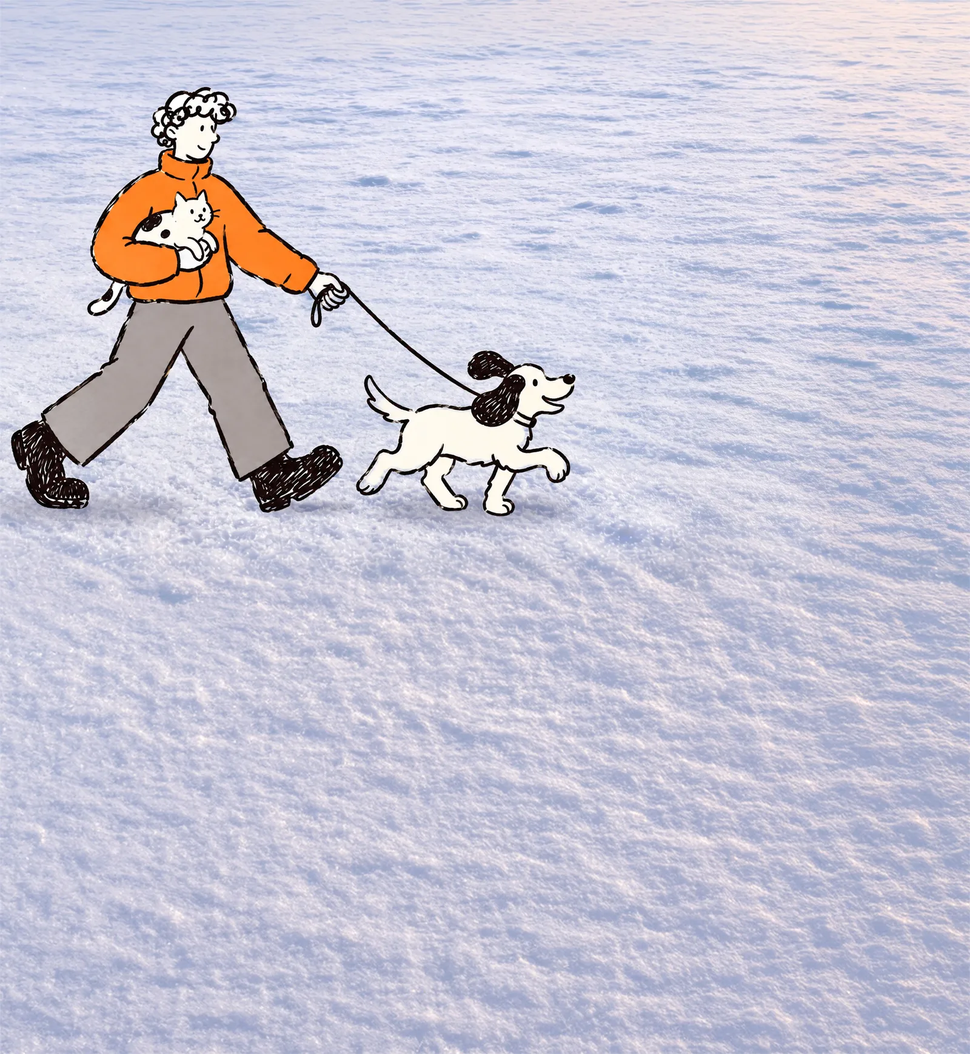
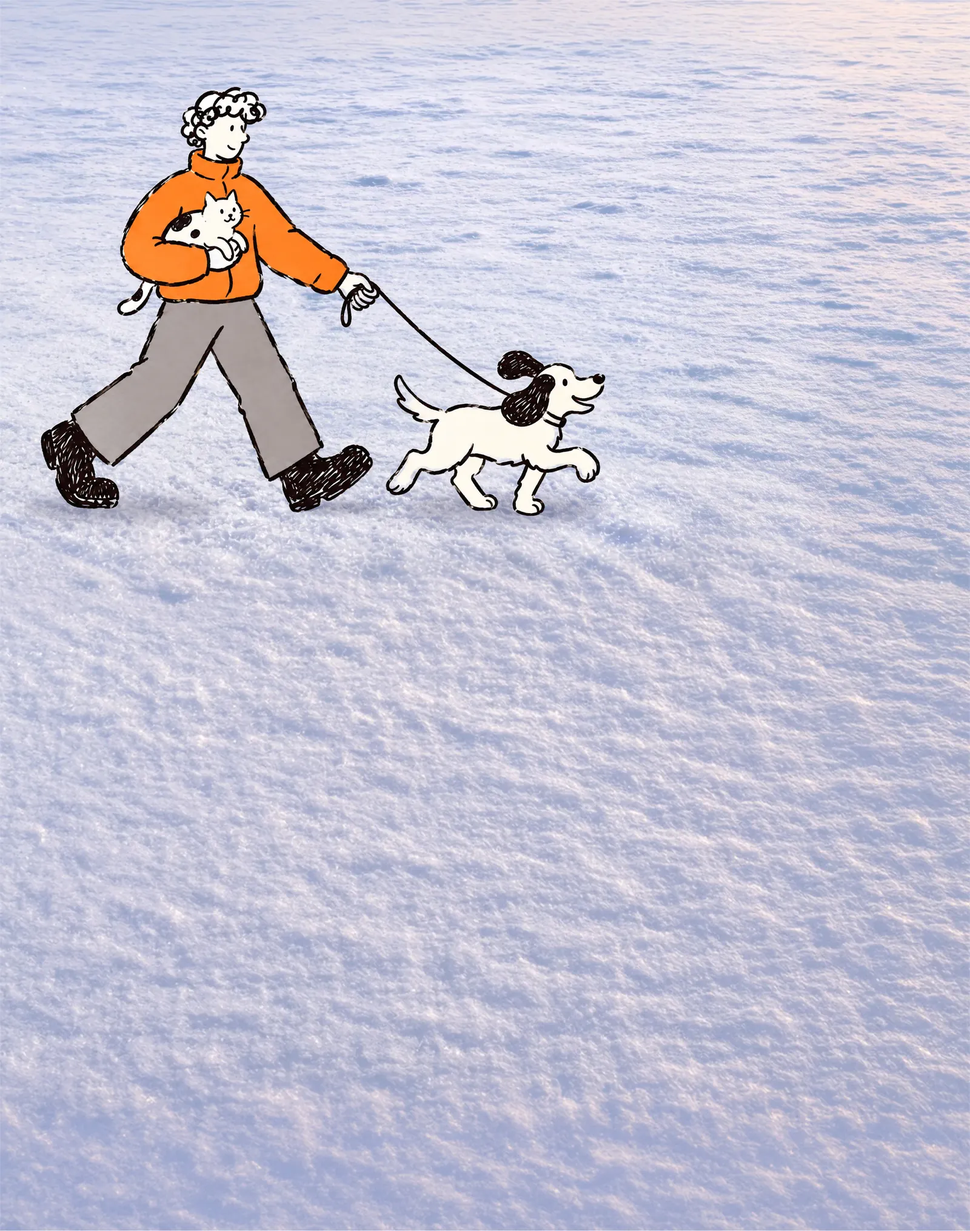
Новый снежный фон с иллюстрацией (Figma 209-1247), баблы точно по макету, больше снега под описательным текстом
Claude-Session: https://claude.ai/code/session_01AkngT74Q8UjbbuWoibwAJK

diff --git a/index.html b/index.html
@@ -73,8 +73,8 @@ button{font:inherit;color:inherit}
 
 /* ---------- 01 · хиро + 02 · текст: один фон из макета ---------- */
 .snow{position:relative;background:#E9E8F2 url(assets/snow.webp) center top/cover no-repeat;overflow:hidden}
-/* мобайл: экспорт десктопного кадра, уменьшенный так, чтобы иллюстрация встала по мобильному макету (x −180, w 623, y 218) */
-.hbg{position:absolute;left:50%;top:calc(177*var(--u));width:calc(800*var(--u));height:auto;margin-left:calc(-294*var(--u));pointer-events:none;
+/* мобайл: экспорт десктопного кадра (1495×1899), уменьшенный так, чтобы иллюстрация встала по мобильному макету (x −180, w 623, y 218) */
+.hbg{position:absolute;left:50%;top:calc(177*var(--u));width:calc(800*var(--u));height:auto;margin-left:calc(-318.4*var(--u));pointer-events:none;
   -webkit-mask-image:linear-gradient(transparent,#000 9%,#000 84%,transparent);mask-image:linear-gradient(transparent,#000 9%,#000 84%,transparent)}
 .hero{position:relative;height:calc(811*var(--u))}
 .logo{position:absolute;left:calc(16*var(--u));top:calc(15*var(--u));width:calc(80*var(--u));z-index:6}
@@ -110,12 +110,11 @@ button{font:inherit;color:inherit}
   .nav{display:flex;gap:calc(48*var(--u))}
   .nav a{font-weight:900;font-size:var(--nav);line-height:.86;letter-spacing:-.03em;color:var(--orange);text-decoration:none}
   .nav a:hover{text-decoration:underline;text-underline-offset:calc(6*var(--u))}
-  /* Figma 209-1247: баблы ближе к иллюстрации, наклоны новые. Координаты сдвинуты на −46.2 по x вместе с иллюстрацией,
-     т.к. фон пока прежний (иллюстрация в нём на старом месте) — взаимное положение как в макете */
-  .plate{left:calc(924.1*var(--u));top:calc(168.2*var(--u));width:calc(533.1*var(--u));height:calc(103.6*var(--u));border-radius:calc(34*var(--u));font-size:calc(85.9*var(--u));--pr:-6.7deg;padding-bottom:calc(11.8*var(--u))}
-  .obub{transform-origin:calc(886*var(--u)) calc(592*var(--u))}
-  .union{left:calc(782.8*var(--u));top:calc(200.2*var(--u));width:calc(588.4*var(--u));rotate:-2.5deg}
-  .ut{left:calc(1082*var(--u));top:calc(365.1*var(--u));font-size:calc(188.9*var(--u));rotate:1.1deg}
+  /* Figma 209-1247: баблы ближе к иллюстрации, наклоны новые */
+  .plate{left:calc(970.3*var(--u));top:calc(167.9*var(--u));width:calc(533.1*var(--u));height:calc(103.6*var(--u));border-radius:calc(34*var(--u));font-size:calc(85.9*var(--u));--pr:-6.7deg;padding-bottom:calc(11.8*var(--u))}
+  .obub{transform-origin:calc(932*var(--u)) calc(592*var(--u))}
+  .union{left:calc(829*var(--u));top:calc(199.9*var(--u));width:calc(588.4*var(--u));rotate:-2.5deg}
+  .ut{left:calc(1128.2*var(--u));top:calc(364.8*var(--u));font-size:calc(188.9*var(--u));rotate:1.1deg}
 }
 .js .plate,.js .obub{opacity:0}
 .go .plate{animation:pop .7s cubic-bezier(.34,1.56,.64,1) .25s both}
@@ -143,14 +142,14 @@ button{font:inherit;color:inherit}
 .dr1{left:calc(291.5*var(--u));top:calc(406*var(--u));width:calc(66*var(--u));rotate:-9.3deg;transition-delay:.1s}
 .dr2{left:calc(279*var(--u));top:calc(423*var(--u));width:calc(42*var(--u));transition-delay:.25s}
 @media (min-width:900px){
-  .lead-sec{height:calc(760*var(--u))}
+  .lead-sec{height:calc(1034*var(--u))}
   .lead-sec::before{background:radial-gradient(ellipse 42% 44% at 50% 45%,rgba(255,255,255,.62),rgba(255,255,255,.36) 55%,rgba(255,255,255,0) 100%)}
   .lead-sec::after{height:calc(140*var(--u))}
-  .lead{left:calc(369*var(--u));top:calc(134*var(--u));width:calc(757*var(--u))}
-  .dl1{left:calc(248*var(--u));top:calc(124*var(--u));width:calc(110*var(--u));rotate:0deg}
-  .dl2{left:calc(205*var(--u));top:calc(202*var(--u));width:calc(137*var(--u));rotate:0deg}
-  .dr1{left:calc(1145*var(--u));top:calc(512*var(--u));width:calc(124*var(--u));rotate:0deg}
-  .dr2{left:calc(1135*var(--u));top:calc(562*var(--u));width:calc(81*var(--u));rotate:0deg}
+  .lead{left:calc(369*var(--u));top:calc(250*var(--u));width:calc(757*var(--u))}
+  .dl1{left:calc(248*var(--u));top:calc(240*var(--u));width:calc(110*var(--u));rotate:0deg}
+  .dl2{left:calc(205*var(--u));top:calc(318*var(--u));width:calc(137*var(--u));rotate:0deg}
+  .dr1{left:calc(1145*var(--u));top:calc(628*var(--u));width:calc(124*var(--u));rotate:0deg}
+  .dr2{left:calc(1135*var(--u));top:calc(678*var(--u));width:calc(81*var(--u));rotate:0deg}
 }
 
 /* ---------- 03 · почему это важно: три карточки в ряд, баблы всплывают по очереди ---------- */
@@ -404,7 +403,7 @@ button{font:inherit;color:inherit}
 </svg>
 
 <div class="snow" id="snow">
-  <img class="hbg" src="assets/hero-bg-m.webp" width="1600" height="1739" alt="Человек гуляет по снегу с собакой на поводке и держит кота на руках">
+  <img class="hbg" src="assets/hero-bg-m.webp" width="1600" height="2032" alt="Человек гуляет по снегу с собакой на поводке и держит кота на руках">
   <section class="hero" aria-label="Пицца съедена, пора гулять">
     <div class="fr" style="height:100%">
       <a class="logo" href="#top" aria-label="Додо Пицца"><img src="assets/logo.png" alt="Додо Пицца"></a>

diff --git a/src/template.html b/src/template.html
@@ -73,8 +73,8 @@ button{font:inherit;color:inherit}
 
 /* ---------- 01 · хиро + 02 · текст: один фон из макета ---------- */
 .snow{position:relative;background:#E9E8F2 url(assets/snow.webp) center top/cover no-repeat;overflow:hidden}
-/* мобайл: экспорт десктопного кадра, уменьшенный так, чтобы иллюстрация встала по мобильному макету (x −180, w 623, y 218) */
-.hbg{position:absolute;left:50%;top:u(177);width:u(800);height:auto;margin-left:u(-294);pointer-events:none;
+/* мобайл: экспорт десктопного кадра (1495×1899), уменьшенный так, чтобы иллюстрация встала по мобильному макету (x −180, w 623, y 218) */
+.hbg{position:absolute;left:50%;top:u(177);width:u(800);height:auto;margin-left:u(-318.4);pointer-events:none;
   -webkit-mask-image:linear-gradient(transparent,#000 9%,#000 84%,transparent);mask-image:linear-gradient(transparent,#000 9%,#000 84%,transparent)}
 .hero{position:relative;height:u(811)}
 .logo{position:absolute;left:u(16);top:u(15);width:u(80);z-index:6}
@@ -110,12 +110,11 @@ button{font:inherit;color:inherit}
   .nav{display:flex;gap:u(48)}
   .nav a{font-weight:900;font-size:var(--nav);line-height:.86;letter-spacing:-.03em;color:var(--orange);text-decoration:none}
   .nav a:hover{text-decoration:underline;text-underline-offset:u(6)}
-  /* Figma 209-1247: баблы ближе к иллюстрации, наклоны новые. Координаты сдвинуты на −46.2 по x вместе с иллюстрацией,
-     т.к. фон пока прежний (иллюстрация в нём на старом месте) — взаимное положение как в макете */
-  .plate{left:u(924.1);top:u(168.2);width:u(533.1);height:u(103.6);border-radius:u(34);font-size:u(85.9);--pr:-6.7deg;padding-bottom:u(11.8)}
-  .obub{transform-origin:u(886) u(592)}
-  .union{left:u(782.8);top:u(200.2);width:u(588.4);rotate:-2.5deg}
-  .ut{left:u(1082);top:u(365.1);font-size:u(188.9);rotate:1.1deg}
+  /* Figma 209-1247: баблы ближе к иллюстрации, наклоны новые */
+  .plate{left:u(970.3);top:u(167.9);width:u(533.1);height:u(103.6);border-radius:u(34);font-size:u(85.9);--pr:-6.7deg;padding-bottom:u(11.8)}
+  .obub{transform-origin:u(932) u(592)}
+  .union{left:u(829);top:u(199.9);width:u(588.4);rotate:-2.5deg}
+  .ut{left:u(1128.2);top:u(364.8);font-size:u(188.9);rotate:1.1deg}
 }
 .js .plate,.js .obub{opacity:0}
 .go .plate{animation:pop .7s cubic-bezier(.34,1.56,.64,1) .25s both}
@@ -143,14 +142,14 @@ button{font:inherit;color:inherit}
 .dr1{left:u(291.5);top:u(406);width:u(66);rotate:-9.3deg;transition-delay:.1s}
 .dr2{left:u(279);top:u(423);width:u(42);transition-delay:.25s}
 @media (min-width:900px){
-  .lead-sec{height:u(760)}
+  .lead-sec{height:u(1034)}
   .lead-sec::before{background:radial-gradient(ellipse 42% 44% at 50% 45%,rgba(255,255,255,.62),rgba(255,255,255,.36) 55%,rgba(255,255,255,0) 100%)}
   .lead-sec::after{height:u(140)}
-  .lead{left:u(369);top:u(134);width:u(757)}
-  .dl1{left:u(248);top:u(124);width:u(110);rotate:0deg}
-  .dl2{left:u(205);top:u(202);width:u(137);rotate:0deg}
-  .dr1{left:u(1145);top:u(512);width:u(124);rotate:0deg}
-  .dr2{left:u(1135);top:u(562);width:u(81);rotate:0deg}
+  .lead{left:u(369);top:u(250);width:u(757)}
+  .dl1{left:u(248);top:u(240);width:u(110);rotate:0deg}
+  .dl2{left:u(205);top:u(318);width:u(137);rotate:0deg}
+  .dr1{left:u(1145);top:u(628);width:u(124);rotate:0deg}
+  .dr2{left:u(1135);top:u(678);width:u(81);rotate:0deg}
 }
 
 /* ---------- 03 · почему это важно: три карточки в ряд, баблы всплывают по очереди ---------- */
@@ -404,7 +403,7 @@ button{font:inherit;color:inherit}
 </svg>
 
 <div class="snow" id="snow">
-  <img class="hbg" src="assets/hero-bg-m.webp" width="1600" height="1739" alt="Человек гуляет по снегу с собакой на поводке и держит кота на руках">
+  <img class="hbg" src="assets/hero-bg-m.webp" width="1600" height="2032" alt="Человек гуляет по снегу с собакой на поводке и держит кота на руках">
   <section class="hero" aria-label="Пицца съедена, пора гулять">
     <div class="fr" style="height:100%">
       <a class="logo" href="#top" aria-label="Додо Пицца"><img src="assets/logo.png" alt="Додо Пицца"></a>
